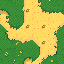
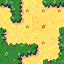
art: alle 5 Wang-Tilesets auf flat shading neugeniert – kein Klippeneffekt (#866) (#899)

diff --git a/assets/pixellab/README.md b/assets/pixellab/README.md
@@ -7,7 +7,7 @@ der Single-File-Offline-Build inlinet sie automatisch als Base64-Data-URI, bleib
 self-contained. Die `.json` sind die Tileset-Metadaten.
 
 ## Einheitlicher Stil (immer mitgeben)
-- **Tiles:** 16×16, `selective outline`, `detailed shading`, `highly detailed`, `high top-down`
+- **Tiles:** 16×16, `flat shading`, `high top-down` (Terrain-Tilesets seit #866 flat; Objekte/Figuren weiter `selective outline`, `detailed shading`)
 - **Figuren:** `low top-down`, `chibi`, `selective outline`, `high detail`, size 32, 4 Richtungen (nur `south`-Frame genutzt)
 - **Maßstab:** Mensch = **1 Kachel (16px)**. Daran alles ausrichten (Baum ~3 Kacheln, Busch ~1, Fass ~1).
 
@@ -16,11 +16,11 @@ Verkettet über `lower_base_tile_id`, damit gemeinsame Terrains pixelgleich ansc
 
 | Datei | Übergang | tileset_id | base tiles (lower→upper) |
 |---|---|---|---|
-| `water-sand` (coast) | Wasser→Sand | ad0e0dfe-8b9b-4811-8317-732f3570c08a | water c50ea16a… → sand 591e7962… (neu generiert #852: `pro`-Modus, raggedness 0.35, Stardew Valley Stil, warme Palette) |
-| `sand-grass` (meadow) | Sand→Gras | 0ae66228-c2ee-41c3-a195-f2d29660247e | sand 591e7962… → grass 2a6e0d3d… (neu generiert #852: an coast-sand gekettet) |
-| `grass-dirt` (path) | Gras→Weg | 5feecda6-337d-4a90-88af-b7246e041fff | grass 2a6e0d3d… → dirt e8734988… (neu generiert #852: an meadow-grass gekettet) |
-| `water-stone` (kai) | Wasser→Stein | fd2b6712-8192-4e77-85f2-af767016582d | water c50ea16a… → stone 83b435ec… (neu generiert #852: an coast-water gekettet) |
-| `water-wood` (dock) | Wasser→Holz | 9e11e1c2-c288-4d3c-a0f4-e26567bd7808 | water c50ea16a… → wood 9e0b8efc… (neu generiert #852: an coast-water gekettet) |
+| `water-sand` (coast) | Wasser→Sand | 6e493a2f-96c4-4f87-94cd-4e09440c242b | water c50ea16a… → sand 591e7962… (neu generiert #866: `flat shading`, kein Klippeneffekt) |
+| `sand-grass` (meadow) | Sand→Gras | 6d5d549e-0248-4b77-9c66-ba5aebdbbe7f | sand 591e7962… → grass 2a6e0d3d… (neu generiert #866: `flat shading`) |
+| `grass-dirt` (path) | Gras→Weg | 2ee27044-f79e-4854-999f-b0d9d02c087c | grass 2a6e0d3d… → dirt e8734988… (neu generiert #866: `flat shading`, lower=Gras/upper=Weg) |
+| `water-stone` (kai) | Wasser→Stein | 50e3123e-5605-4b8f-be91-2b358b58ea81 | water c50ea16a… → stone 83b435ec… (neu generiert #866: `flat shading`) |
+| `water-wood` (dock) | Wasser→Holz | 9791ecec-830d-4135-8d90-85bdad4da5a4 | water c50ea16a… → wood 9e0b8efc… (neu generiert #866: `flat shading`) |
 
 Gemeinsame Basis-Tile-IDs (zum Weiter-Verketten neuer Sets):
 `water c50ea16a-a715-4601-b9cc-5909f9b64975` · `sand 591e7962-0d9a-4cb5-bed6-a31ab5e946a7` ·
